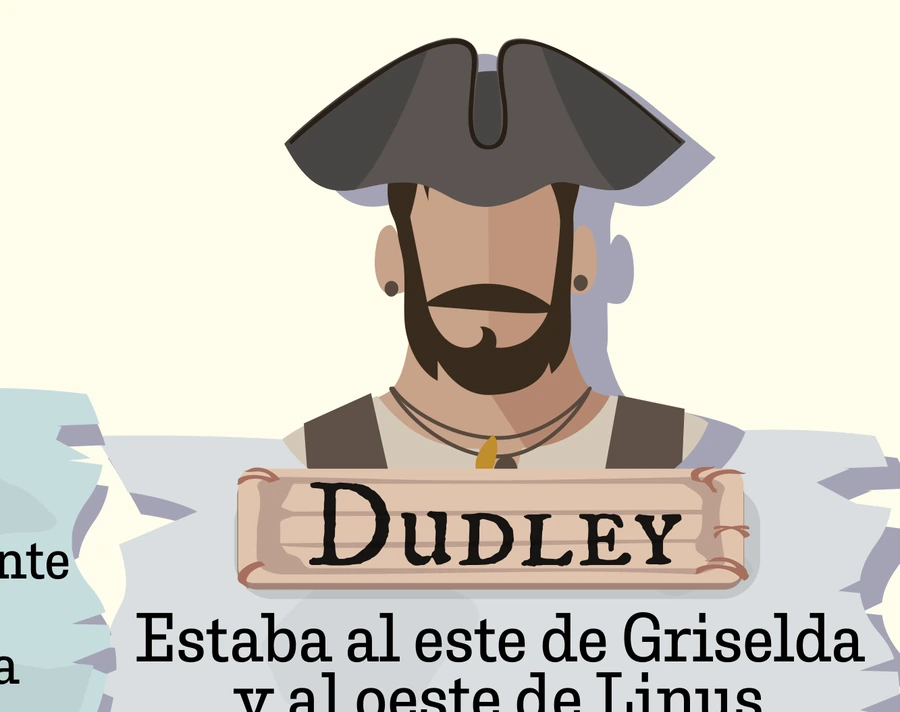
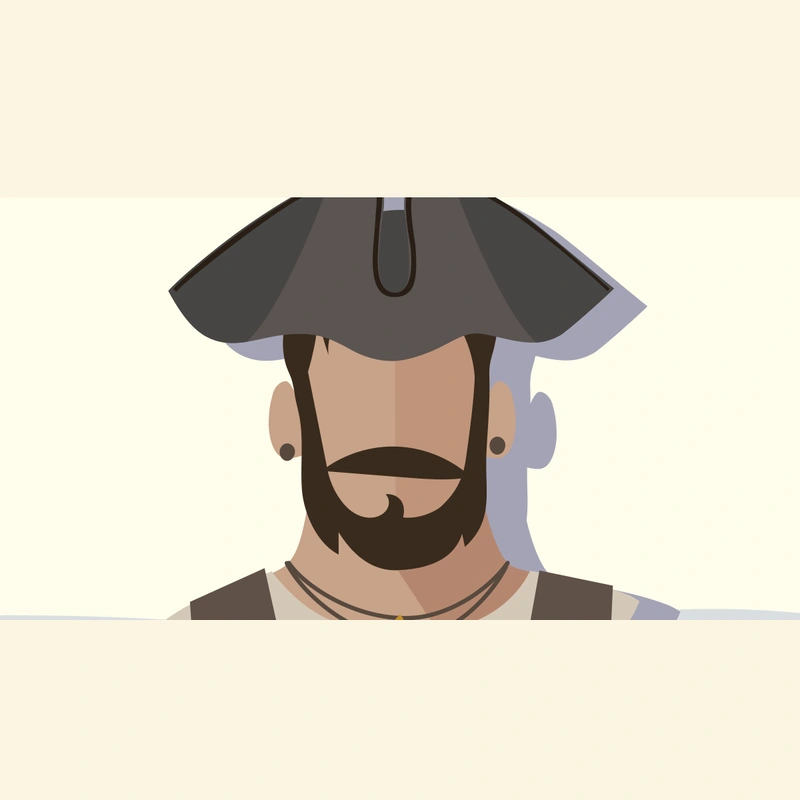
Center Murdoku portraits and add clues to suspect cards

diff --git a/murdoku/index.html b/murdoku/index.html
@@ -5,11 +5,11 @@
   <meta name="viewport" content="width=device-width, initial-scale=1.0">
   <meta name="description" content="Versión jugable de La Búsqueda del Tesoro, el puzle de Murdoku del concurso mundial #1. Coloca a los sospechosos y encuentra el cofre.">
   <title>Murdoku · La Búsqueda del Tesoro</title>
-  <link rel="icon" type="image/webp" href="assets/treasure.webp?v=4">
+  <link rel="icon" type="image/webp" href="assets/treasure.webp?v=6">
   <link rel="preconnect" href="https://fonts.googleapis.com">
   <link rel="preconnect" href="https://fonts.gstatic.com" crossorigin>
   <link href="https://fonts.googleapis.com/css2?family=Caveat:wght@600;700&family=Inter:wght@400;500;600;700;800&display=swap" rel="stylesheet">
-  <link rel="stylesheet" href="css/styles.css?v=4">
+  <link rel="stylesheet" href="css/styles.css?v=6">
 </head>
 <body>
   <div class="app">
@@ -42,7 +42,7 @@
         <div class="roster-grid" id="roster"></div>
         <div class="treasure-card" id="treasureCard">
           <div class="treasure-card-img">
-            <img src="assets/treasure.webp?v=4" alt="Cofre del tesoro" draggable="false">
+            <img src="assets/treasure.webp?v=6" alt="Cofre del tesoro" draggable="false">
             <div class="treasure-card-lock" id="treasureLock">?</div>
           </div>
           <div class="treasure-card-body">
@@ -86,7 +86,7 @@
           <div class="col-labels" id="colLabels" aria-hidden="true"></div>
           <div class="row-labels" id="rowLabels" aria-hidden="true"></div>
           <div class="board" id="board">
-            <img class="board-bg" src="assets/board.webp?v=4" alt="Mapa de la isla con zonas, objetos y sospechosos" draggable="false">
+            <img class="board-bg" src="assets/board.webp?v=6" alt="Mapa de la isla con zonas, objetos y sospechosos" draggable="false">
             <div class="cells" id="cells"></div>
             <div class="tokens" id="tokens" aria-live="polite"></div>
             <div class="cross-overlay" id="crossOverlay" hidden>
@@ -94,7 +94,7 @@
               <div class="cross-col" id="crossCol"></div>
               <div class="treasure-burst" id="treasureBurst">
                 <div class="treasure-glow"></div>
-                <img src="assets/treasure.webp?v=4" alt="Cofre del tesoro" draggable="false">
+                <img src="assets/treasure.webp?v=6" alt="Cofre del tesoro" draggable="false">
                 <div class="treasure-label">¡TESORO!</div>
               </div>
             </div>
@@ -215,7 +215,7 @@
     <div class="modal-backdrop" data-close="modalVictory"></div>
     <div class="modal-card victory-card" role="dialog" aria-modal="true" aria-labelledby="victoryTitle">
       <div class="victory-rays" aria-hidden="true"></div>
-      <div class="victory-chest"><img src="assets/treasure.webp?v=4" alt="Cofre del tesoro" draggable="false"></div>
+      <div class="victory-chest"><img src="assets/treasure.webp?v=6" alt="Cofre del tesoro" draggable="false"></div>
       <div class="eyebrow">¡Caso resuelto!</div>
       <h2 id="victoryTitle">Has encontrado el tesoro</h2>
       <p class="victory-coords" id="victoryCoords">Fila 4 · Columna 11</p>
@@ -228,7 +228,7 @@
     </div>
   </div>
 
-  <script src="js/data.js?v=4" defer></script>
-  <script src="js/app.js?v=4" defer></script>
+  <script src="js/data.js?v=6" defer></script>
+  <script src="js/app.js?v=6" defer></script>
 </body>
 </html>

diff --git a/murdoku/css/styles.css b/murdoku/css/styles.css
@@ -276,8 +276,8 @@ button:focus-visible, input:focus-visible, [tabindex]:focus-visible {
 .person-card .thumb {
   position: relative;
   width: 100%;
-  aspect-ratio: 4 / 3;
-  border-radius: 8px;
+  aspect-ratio: 1 / 1;
+  border-radius: 50%;
   overflow: hidden;
   background: var(--card);
   border: 1px solid rgba(33, 27, 20, 0.1);
@@ -286,15 +286,15 @@ button:focus-visible, input:focus-visible, [tabindex]:focus-visible {
   width: 100%;
   height: 100%;
   object-fit: cover;
-  object-position: 50% 100%;
+  object-position: 50% 50%;
   display: block;
 }
 .person-card .thumb::before {
   content: "";
   position: absolute;
   inset: 0 0 auto 0;
-  height: 18%;
-  background: linear-gradient(180deg, var(--card) 10%, rgba(255, 250, 240, 0));
+  height: 0%;
+  background: transparent;
   pointer-events: none;
   z-index: 1;
 }
@@ -302,7 +302,7 @@ button:focus-visible, input:focus-visible, [tabindex]:focus-visible {
   content: "";
   position: absolute;
   inset: 0;
-  background: linear-gradient(180deg, transparent 88%, rgba(20, 14, 8, 0.08));
+  background: transparent;
   pointer-events: none;
 }
 
@@ -340,6 +340,17 @@ button:focus-visible, input:focus-visible, [tabindex]:focus-visible {
   overflow: hidden;
   text-overflow: ellipsis;
   padding: 0 1px 1px;
+}
+.person-card .clue-snippet {
+  display: block;
+  margin-top: 1px;
+  padding: 3px 2px 1px;
+  border-top: 1px dashed var(--line);
+  font-size: 9px;
+  line-height: 1.35;
+  color: var(--ink-soft);
+  text-align: left;
+  overflow-wrap: anywhere;
 }
 .person-card .check {
   position: absolute;
@@ -642,8 +653,8 @@ button:focus-visible, input:focus-visible, [tabindex]:focus-visible {
   position: absolute;
   inset: 0;
   background-repeat: no-repeat;
-  background-size: 145%;
-  background-position: 50% 12%;
+  background-size: 100%;
+  background-position: 50% 50%;
   transform: scale(1.02);
 }
 .token-inner::after {
@@ -866,9 +877,7 @@ button:focus-visible, input:focus-visible, [tabindex]:focus-visible {
 .clue-card .clue-face img {
   width: 100%; height: 100%;
   object-fit: cover;
-  object-position: 50% 12%;
-  transform: scale(1.25);
-  transform-origin: 50% 0%;
+  object-position: 50% 50%;
 }
 .clue-card .clue-body { min-width: 0; display: flex; flex-direction: column; gap: 2px; }
 .clue-card .clue-name {

diff --git a/murdoku/js/data.js b/murdoku/js/data.js
@@ -4,7 +4,7 @@
    Las coordenadas de la solución son 1-indexadas (Fila, Columna).
    ============================================================ */
 
-const ASSET_VERSION = "4";
+const ASSET_VERSION = "6";
 
 const PUZZLE = {
   n: 24,

diff --git a/murdoku/js/app.js b/murdoku/js/app.js
@@ -330,6 +330,7 @@
           <span class="pos" hidden></span>
         </span>
         <span class="tag">${p.tag}</span>
+        <span class="clue-snippet">${p.clue}</span>
       `;
       els.roster.appendChild(card);
     }
